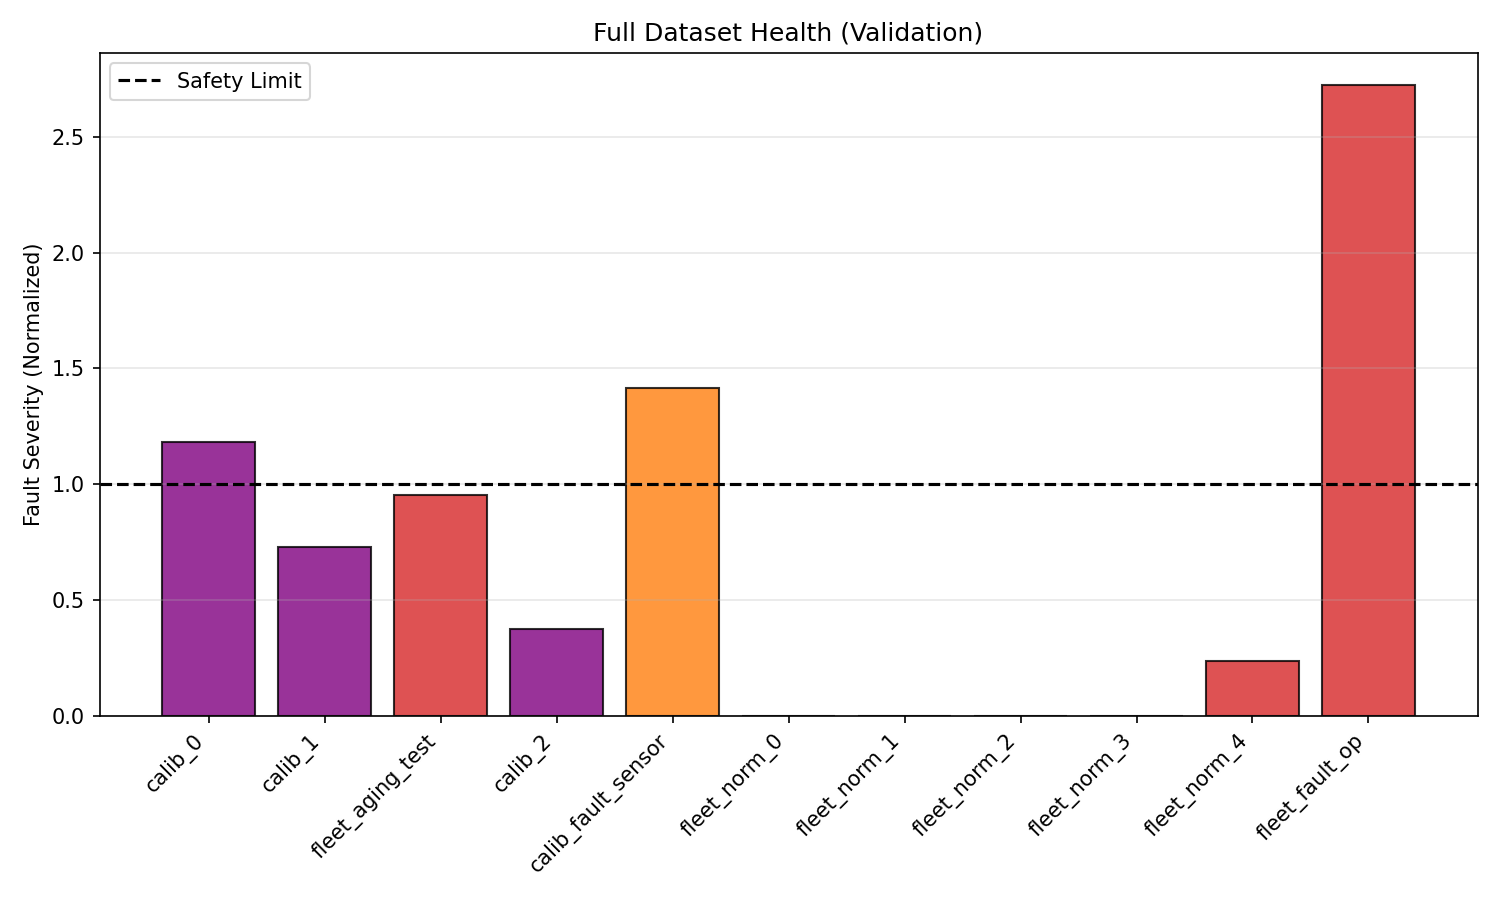
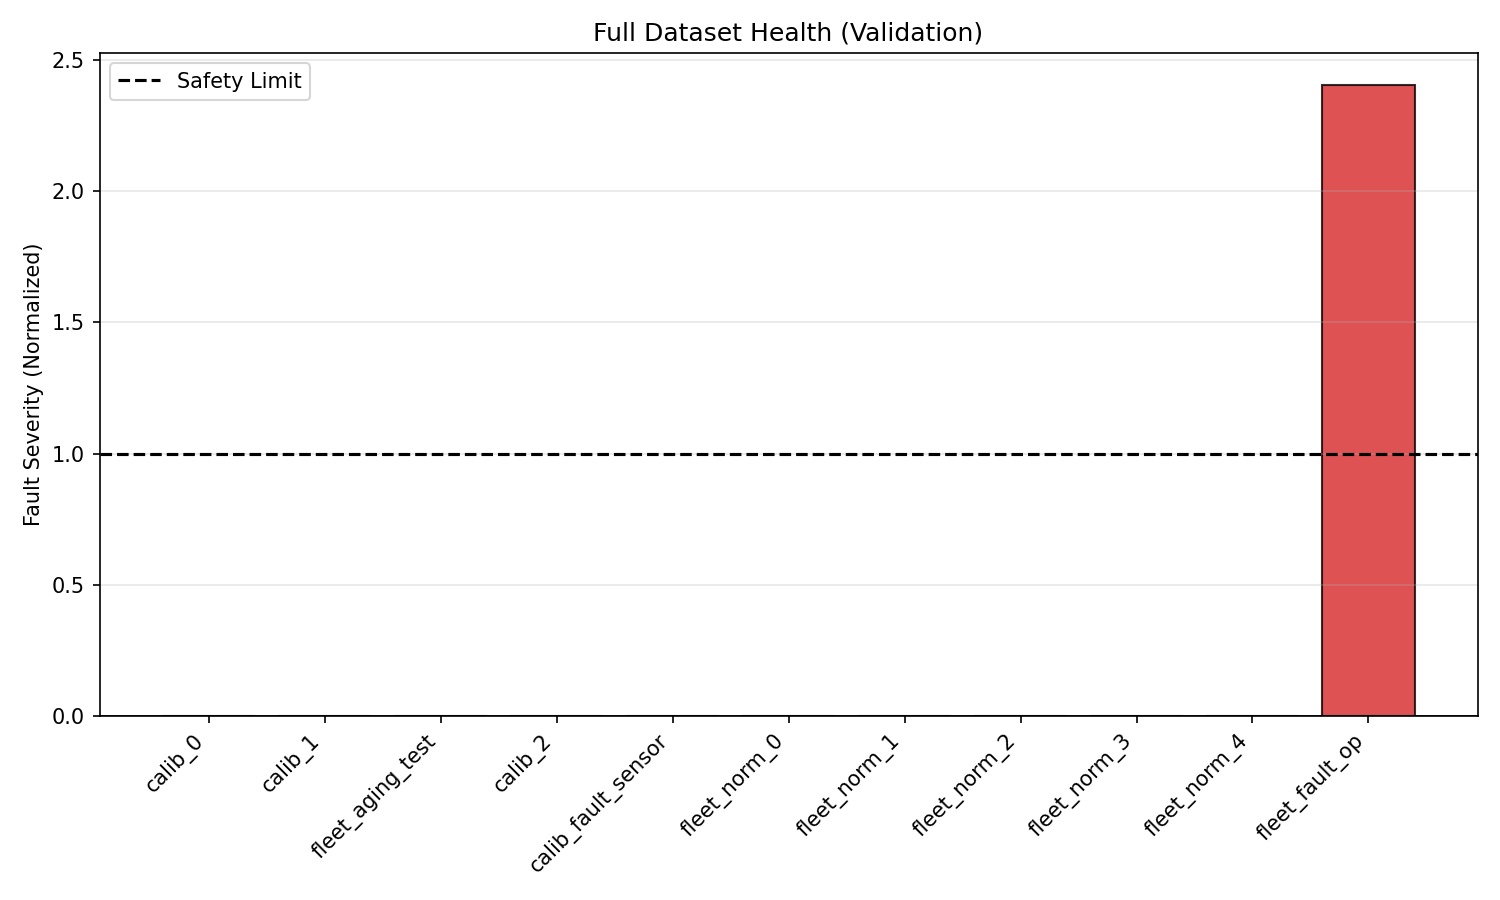
Add files via upload

diff --git a/main_pipeline.py b/main_pipeline.py
@@ -1,7 +1,7 @@
 from __future__ import annotations
 
 import os
-from typing import List, Dict, Tuple
+from typing import List, Dict, Tuple, Optional
 
 import matplotlib.pyplot as plt
 import numpy as np
@@ -69,9 +69,18 @@ def run_sox_estimation(df_all: pd.DataFrame,
     df = df_all.loc[mask].copy()
     if df.empty: return df
 
+    df = df.sort_index()
     C_real = C_nom * soh_true
     I = df["I_A"].to_numpy(dtype=float)
-    dt = 1.0 # 简化，假设均匀采样
+    if np.isnan(I).any():
+        I = pd.Series(I).interpolate(limit_direction="both").fillna(0.0).to_numpy()
+    t = df.index.to_numpy(dtype=float)
+    if len(t) > 1:
+        dt = float(np.nanmedian(np.diff(t)))
+    else:
+        dt = 1.0
+    if not np.isfinite(dt) or dt <= 0:
+        dt = 1.0
 
     n = len(df)
     soc_true = np.zeros(n)
@@ -281,6 +290,8 @@ def main() -> None:
 
     thresholds = calibrate_thresholds(df_ind)
     df_ind = analyze_risk_and_severity(df_ind, thresholds)
+    if "P_resid_truth" in df_ind.columns:
+        df_ind["P_resid_meas_fallback"] = df_ind["P_resid_meas"].fillna(df_ind["P_resid_truth"])
 
     # 6. Plotting
     print(">>> Plotting Final Charts...")
@@ -291,6 +302,18 @@ def main() -> None:
     # Plot Risk (Operational Only)
     df_fleet_risk = df_ind[~df_ind["is_calib"] & (df_ind["scenario"] != "fleet_aging_test")]
     plot_risk_bar(df_fleet_risk, os.path.join(OUTPUT_DIR, "risk_score.png"), "Fleet Health Status")
+    plot_risk_bar(
+        df_fleet_risk,
+        os.path.join(OUTPUT_DIR, "risk_score_fleet.png"),
+        "Operational Fleet Health (Operational Only)",
+        safety_limit=1.0
+    )
+    plot_risk_bar(
+        df_ind,
+        os.path.join(OUTPUT_DIR, "risk_score_full.png"),
+        "Full Dataset Health (Validation)",
+        safety_limit=1.0
+    )
     
     # Plot SOX
     plot_sox(df_sox, os.path.join(OUTPUT_DIR, "plot_sox_estimation.png"))
@@ -323,28 +346,38 @@ def plot_sox(df_sox: pd.DataFrame, path: str) -> None:
 
 def plot_metrics_scatter(df_ind: pd.DataFrame, path: str):
     plt.figure(figsize=(10, 7))
-    d_plot = df_ind[~df_ind["scenario"].str.contains("aging")]
+    d_plot = df_ind[~df_ind["scenario"].str.contains("aging")].copy()
+    y_col = "P_resid_meas_fallback" if "P_resid_meas_fallback" in d_plot.columns else "P_resid_meas"
+    d_plot = d_plot.dropna(subset=["P_resid_consistency", y_col])
     groups = d_plot.groupby("fault_type")
     colors = {'none': 'blue', 'overpressure': 'red', 'sensor_fault': 'orange'}
     markers = {'none': 'o', 'overpressure': 'X', 'sensor_fault': 's'}
     
     for name, group in groups:
-        plt.scatter(group["P_resid_consistency"], group["P_resid_meas"], 
+        plt.scatter(group["P_resid_consistency"], group[y_col], 
                     c=colors.get(name,'gray'), marker=markers.get(name,'o'), 
                     s=100, label=name, alpha=0.7, edgecolors='k')
     
     plt.xlabel("Physics Consistency Residual (kPa)")
-    plt.ylabel("Measurement Residual (kPa)")
-    plt.title("Fault Decoupling Map")
+    ylabel = "Measurement Residual (kPa)"
+    title = "Fault Decoupling Map"
+    if y_col == "P_resid_meas_fallback":
+        ylabel = "Measurement/Truth Residual (kPa)"
+        title = "Fault Decoupling Map (Truth fallback if no P_meas)"
+    plt.ylabel(ylabel)
+    plt.title(title)
     plt.legend(); plt.grid(True, alpha=0.3)
     plt.savefig(path, dpi=150); plt.close()
 
-def plot_risk_bar(df_ind: pd.DataFrame, path: str, title: str) -> None:
+def plot_risk_bar(df_ind: pd.DataFrame, path: str, title: str, safety_limit: Optional[float] = None) -> None:
     if df_ind.empty: return
     plt.figure(figsize=(10, 6))
     colors = [{"normal":"tab:blue","phys_fault":"tab:red","sensor_fault":"tab:orange","mixed":"purple"}.get(r,"gray") for r in df_ind["rule_risk"]]
     plt.bar(df_ind["scenario"], df_ind["severity"], color=colors, alpha=0.8, edgecolor='k')
     plt.axhline(0, color='k', linewidth=0.8) # Base
+    if safety_limit is not None:
+        plt.axhline(safety_limit, color='k', linestyle='--', linewidth=1.5, label="Safety Limit")
+        plt.legend(loc="upper left")
     # Note: With normalized severity, >0 usually means above threshold if defined as max(0, ratio-1)
     # But visually let's leave it clean.
     plt.xticks(rotation=45, ha="right"); plt.ylabel("Fault Severity (Normalized)")

diff --git a/src/diagnostics.py b/src/diagnostics.py
@@ -14,9 +14,10 @@ def compute_cycle_indicators(df_cycle: pd.DataFrame, cfg: IndicatorConfig) -> pd
     s = df_cycle.sort_index()
     get = lambda k: s.get(k, pd.Series(np.nan, index=s.index)).values
     
-    P_mech = s.get("P_gas_mech_est", s.get("P_gas_phys_kPa", pd.Series(np.nan))).values
-    P_soft = s.get("P_gas_soft_est", s.get("P_gas_phys_kPa_pred", pd.Series(np.nan))).values
-    P_meas = get("P_gas_kPa") 
+    P_mech = s.get("P_gas_mech_est", s.get("P_gas_phys_kPa", pd.Series(np.nan, index=s.index))).values
+    P_soft = s.get("P_gas_soft_est", s.get("P_gas_phys_kPa_pred", pd.Series(np.nan, index=s.index))).values
+    P_meas = get("P_gas_kPa")
+    P_true = s.get("P_gas_phys_kPa", pd.Series(np.nan, index=s.index)).values
     
     ind = {}
     dQ = s["Q_Ah"].iloc[-1] - s["Q_Ah"].iloc[0] if len(s) > 1 else 0
@@ -42,6 +43,12 @@ def compute_cycle_indicators(df_cycle: pd.DataFrame, cfg: IndicatorConfig) -> pd
         ind["P_resid_meas"] = np.sqrt(np.nanmean((P_meas - P_soft)**2))
     else:
         ind["P_resid_meas"] = np.nan
+
+    # Truth Residual (Truth vs Soft) for visualization fallback when P_meas is missing
+    if not np.all(np.isnan(P_true)) and len(P_soft) == len(P_true):
+        ind["P_resid_truth"] = np.sqrt(np.nanmean((P_true - P_soft)**2))
+    else:
+        ind["P_resid_truth"] = np.nan
 
     ind["has_P_meas"] = 1.0 if not np.all(np.isnan(P_meas)) else 0.0
 

diff --git a/README.md b/README.md
@@ -5,6 +5,7 @@
 > 采用离线/在线分离架构，已做好 MCU 迁移准备（MCU-Ready）。
 
 ## 更新记录 / Change Log
+- 2026-01-08: add SOH estimation NaN handling, scatter fallback residuals, safety-limit risk plots, and README notes.
 - 2026-01-07：修复 `src/data_schema.py` 字段字符串语法错误；`OnlineBMSEngine` 采样间隔改为时间戳/`dt_s` 推导；添加更新记录说明。
 - 2026-01-07：阈值标定仅用健康运营数据并截尾；严重度放大且过滤校准/老化；机械压力估计平滑；软传感去偏仅用健康段；SOH 演示收敛减缓；散点图阈值自动标定。
 - 说明：本节记录日常增量改动（按日期倒序）；大版本里程碑请写在下方“版本演进”章节。
@@ -77,6 +78,8 @@ python realtime_monitor.py
 - **故障解耦诊断**：`outputs/plot_fault_*.png` 展示 Cold Swelling 与 Sensor Drift 的残差分区。
 - **SOH 收敛**：`outputs/plot_sox_estimation.png` 中估计 SOH 从 100% 平滑收敛到 90%。
 - **车队健康评估**：`outputs/risk_score*.png` 展示归一化严重度及分级预警。
+- **Safety-limit views**: outputs/risk_score_fleet.png and outputs/risk_score_full.png add a dashed safety limit line for operational vs full data.
+- **Scatter fallback**: outputs/plot_metrics_scatter.png uses measurement residual when P_gas_kPa exists, otherwise it falls back to truth residual.
 
 -----
 
